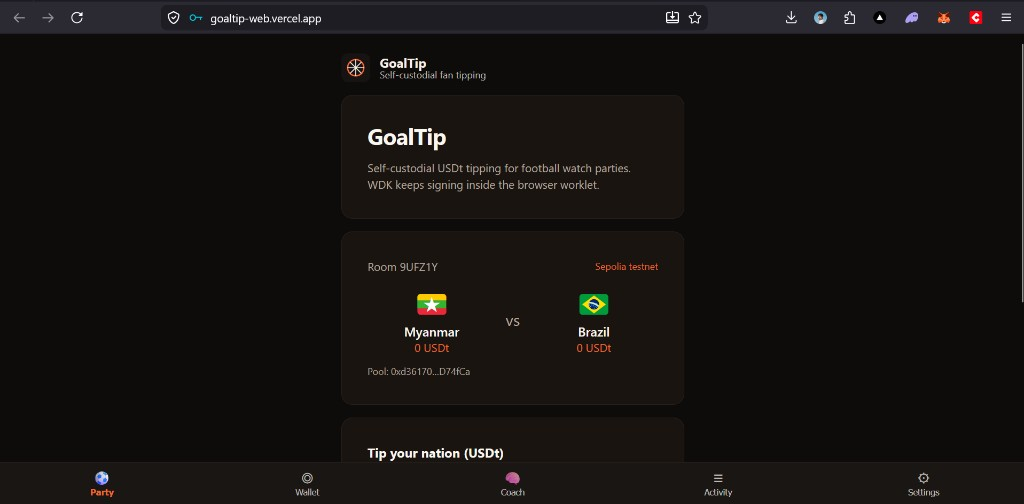
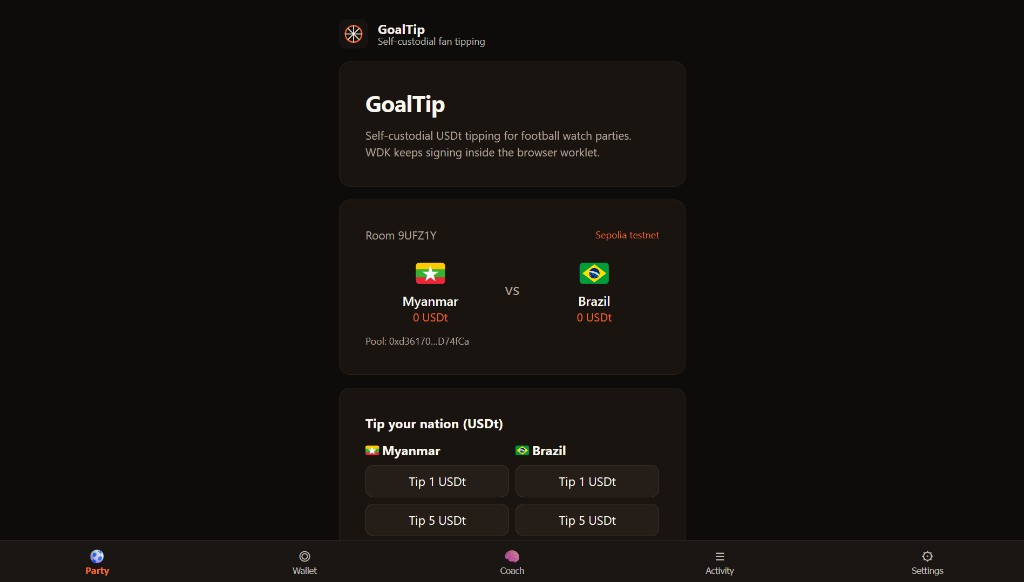
Use fresh live screenshot in README, custom tip amount now works for both nations

diff --git a/apps/web/src/components/watch-party-screen.tsx b/apps/web/src/components/watch-party-screen.tsx
@@ -177,13 +177,19 @@ export function WatchPartyScreen (): React.JSX.Element {
               )
             })}
           </div>
-          <div style={{ display: 'flex', gap: 8 }}>
-            <Input value={customAmount} onChange={(e) => setCustomAmount(e.target.value)} placeholder="Amount" />
+          <div style={{ display: 'flex', gap: 8, flexWrap: 'wrap' }}>
+            <Input value={customAmount} onChange={(e) => setCustomAmount(e.target.value)} placeholder="Custom amount" style={{ flex: '1 1 120px' }} />
             <Button
-              disabled={busy || !usdt}
+              disabled={busy || !usdt || customAmount.trim() === ''}
               onClick={() => void tipNation(party.nationA, customAmount)}
             >
-              Tip home
+              {nationAInfo?.flag} Tip
+            </Button>
+            <Button
+              disabled={busy || !usdt || customAmount.trim() === ''}
+              onClick={() => void tipNation(party.nationB, customAmount)}
+            >
+              {nationBInfo?.flag} Tip
             </Button>
           </div>
           {error && <p style={errorStyle}>{error}</p>}